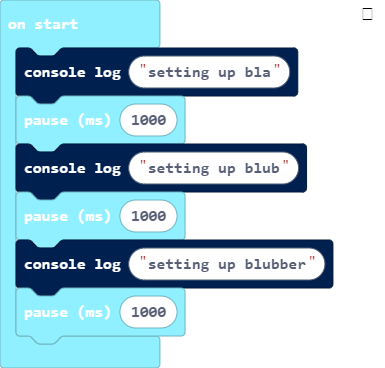
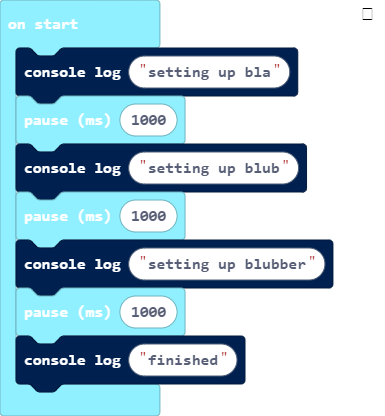
Update main.blocks, main.ts, index.html

diff --git a/index.html b/index.html
@@ -76,6 +76,10 @@
         window.addEventListener('resize', onresize, false);
 
         ksRunnerReady(function () {
+            const script = document.createElement("script");
+            script.src = 'https://cdn.jsdelivr.net/npm/semantic-ui@2.4.2/dist/components/progress.min.js';
+            script.async = false;
+            document.body.appendChild(script);
             jQuery('.ui.dropdown').dropdown();
             pxt.Cloud.apiRoot = '/ide/api/';
             pxt.Cloud.localToken = 'Bearer ' + token;
@@ -180,8 +184,14 @@
             const listener = (ev) => {
                 const msg = ev.data;
                 switch (msg.type) {
-                    case 'serial': consoleElement.textContent = msg.data; break;
-                    case 'bulkserial': consoleElement.textContent = msg.data[msg.data.length - 1].data; break;
+                    case 'serial':
+                        consoleElement.textContent = msg.data;
+                        jQuery('.ui.progress').progress('increment');
+                        break;
+                    case 'bulkserial':
+                        consoleElement.textContent = msg.data[msg.data.length - 1].data;
+                        msg.data.forEach(() => jQuery('.ui.progress').progress('increment'));
+                        break;
                 }
             };
             window.addEventListener('message', listener, false);
@@ -255,11 +265,14 @@
         </div>
         <div class="ui inverted segment" style="background-color: #91f0ff;">
             <h1>Initialization process</h1>
-            <div id="console" style="display: none;">
-                <button class="massive inverted ui loading button">Loading</button>
+            <div id="progress" class="ui progress" style="width: 25rem; display: none;" data-value="0" data-total="4">
+                <div class="bar">
+                    <div class="progress" style="color: white;"></div>
+                </div>
+                <div id="console" class="label">Loading runtime...</div>
             </div>
             <button id="setup" class="massive inverted ui button"
-                onclick="document.getElementById('console').style.display = 'unset'; this.style.display = 'none'; runSetup();">Setup</button>
+                onclick="document.getElementById('progress').style.display = 'unset'; this.style.display = 'none'; runSetup();">Setup</button>
             <div id="sim" style="display: none;"></div>
         </div>
         <div class="ui inverted segment" style="background-color: #5a7c91;">

diff --git a/main.ts b/main.ts
@@ -4,3 +4,4 @@ console.log("setting up blub")
 loops.pause(1000)
 console.log("setting up blubber")
 loops.pause(1000)
+console.log("finished")
